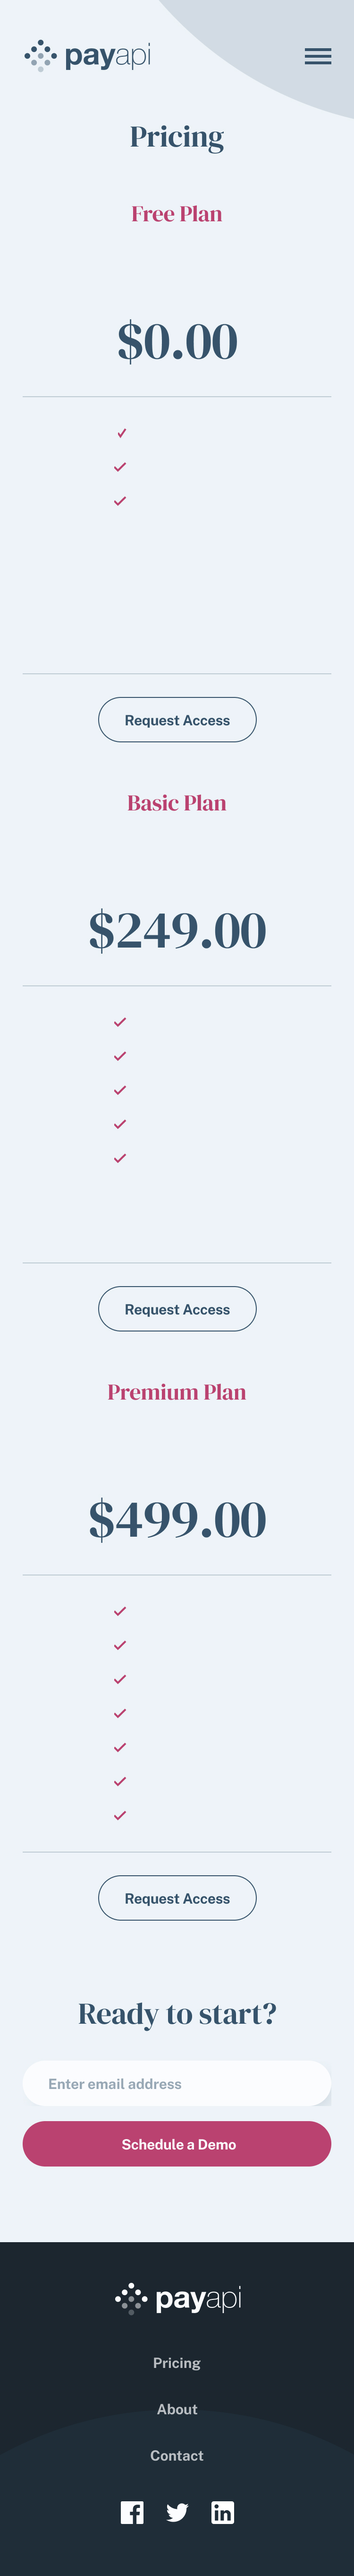
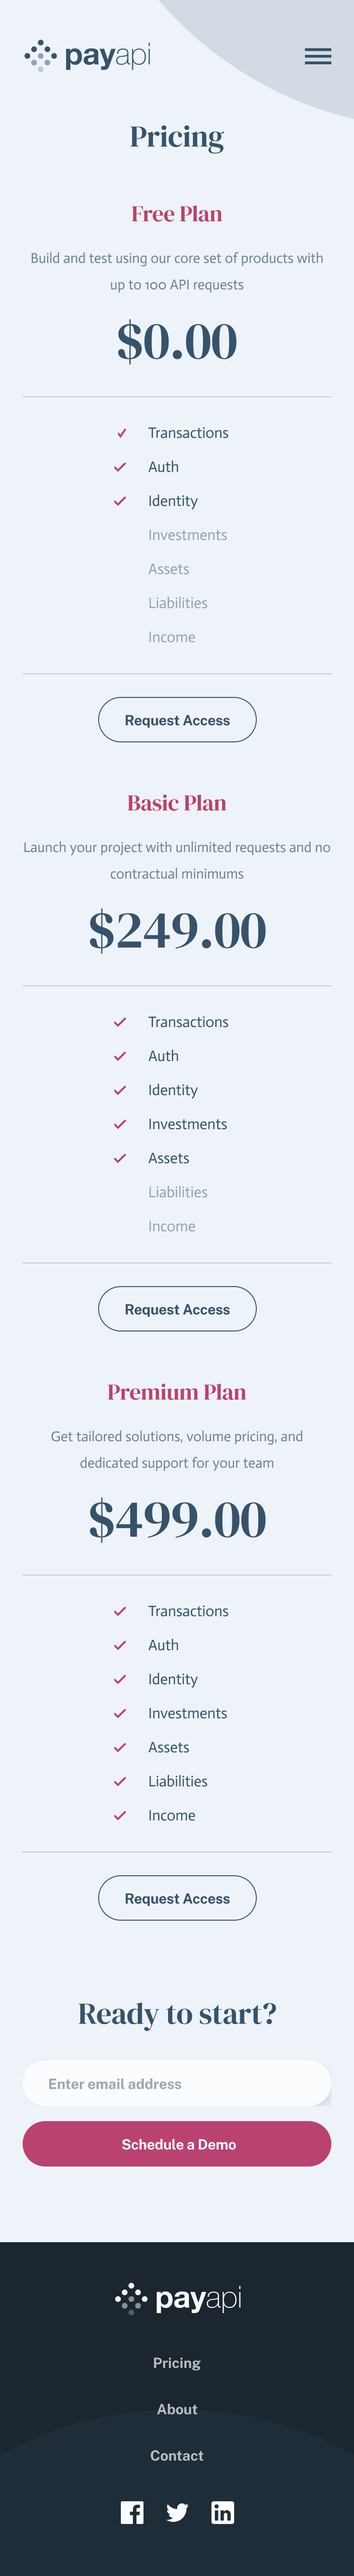
finsish pricing section for mobile

diff --git a/pricing.html b/pricing.html
@@ -28,7 +28,7 @@
                 <nav>
                     <div class="nav-bar">
                         <div class="logo">
-                            <a href=""><img src="./assets/logo.svg"></a>
+                            <a href="./index.html"><img src="./assets/logo.svg"></a>
                         </div>
                         <div class="nav-list">
                             <div class="hamburger">
@@ -46,15 +46,213 @@
                         </div>
                     </div>
                 </nav>
+                <img class="pricing-circle" src="./assets/Rectangle-home .svg" alt="">
             </div>
 
-            
-        
         </section>
     </header>
     <!-- end header section -->
 
-    
+    <!-- main section -->
+    <main>
+
+        <!-- pricing section -->
+        <section>
+            <div class="pricing-container">
+                <h1>Pricing</h1>
+                <div class="pricing">
+                    <div class="headings">
+                        <h2>free plan</h2>
+                        <p>Build and test using our core set of products with up to 100 API requests </p>
+                        <h3>$0.00</h3>
+                        <hr>
+                    </div>
+                    <div class="tik-mark">
+                        <ul>
+                            <li><svg width="14" height="11" viewBox="0 0 14 11" fill="none"
+                                    xmlns="http://www.w3.org/2000/svg">
+                                    <path d="M1 5.15798L4.89327 9L13 1" stroke="#BA4270" stroke-width="2" />
+                                </svg>
+                                <span>Transactions</span>
+                            </li>
+                            <li><svg width="14" height="11" viewBox="0 0 14 11" fill="none"
+                                    xmlns="http://www.w3.org/2000/svg">
+                                    <path d="M1 5.15798L4.89327 9L13 1" stroke="#BA4270" stroke-width="2" />
+                                </svg>
+                                <span>Auth</span>
+                            </li>
+                            <li><svg width="14" height="11" viewBox="0 0 14 11" fill="none"
+                                    xmlns="http://www.w3.org/2000/svg">
+                                    <path d="M1 5.15798L4.89327 9L13 1" stroke="#BA4270" stroke-width="2" />
+                                </svg>
+                                <span>Identity</span>
+                            </li>
+                            <li><svg width="14" height="11" viewBox="0 0 14 11" fill="none"
+                                    xmlns="http://www.w3.org/2000/svg">
+                                    <path d="M1 5.15798L4.89327 9L13 1" stroke="#EDF3F8" stroke-width="2" />
+                                </svg>
+                                <span>Invesment</span>
+                            </li>
+                            <li><svg width="14" height="11" viewBox="0 0 14 11" fill="none"
+                                    xmlns="http://www.w3.org/2000/svg">
+                                    <path d="M1 5.15798L4.89327 9L13 1" stroke="#EDF3F8" stroke-width="2" />
+                                </svg>
+                                <span>Assets</span>
+                            </li>
+                            <li><svg width="14" height="11" viewBox="0 0 14 11" fill="none"
+                                    xmlns="http://www.w3.org/2000/svg">
+                                    <path d="M1 5.15798L4.89327 9L13 1" stroke="#EDF3F8" stroke-width="2" />
+                                </svg>
+                                <span>Liabilities</span>
+                            </li>
+                            <li><svg width="14" height="11" viewBox="0 0 14 11" fill="none"
+                                    xmlns="http://www.w3.org/2000/svg">
+                                    <path d="M1 5.15798L4.89327 9L13 1" stroke="#EDF3F8" stroke-width="2" />
+                                </svg>
+                                <span>Income</span>
+                            </li>
+                        </ul>
+                    </div>
+                    <hr>
+                    <a class="pricing-btn btn" href="#">request access</a>
+                </div>
+
+                <div class="pricing">
+                    <div class="headings">
+                        <h2>basic plan</h2>
+                        <p>Launch your project with unlimited requests and no contractual minimums</p>
+                        <h3>$249.00</h3>
+                        <hr>
+                    </div>
+                    <div class="tik-mark">
+                        <ul>
+                            <li><svg width="14" height="11" viewBox="0 0 14 11" fill="none"
+                                    xmlns="http://www.w3.org/2000/svg">
+                                    <path d="M1 5.15798L4.89327 9L13 1" stroke="#BA4270" stroke-width="2" />
+                                </svg>
+                                <span>Transactions</span>
+                            </li>
+                            <li><svg width="14" height="11" viewBox="0 0 14 11" fill="none"
+                                    xmlns="http://www.w3.org/2000/svg">
+                                    <path d="M1 5.15798L4.89327 9L13 1" stroke="#BA4270" stroke-width="2" />
+                                </svg>
+                                <span>Auth</span>
+                            </li>
+                            <li><svg width="14" height="11" viewBox="0 0 14 11" fill="none"
+                                    xmlns="http://www.w3.org/2000/svg">
+                                    <path d="M1 5.15798L4.89327 9L13 1" stroke="#BA4270" stroke-width="2" />
+                                </svg>
+                                <span>Identity</span>
+                            </li>
+                            <li><svg width="14" height="11" viewBox="0 0 14 11" fill="none"
+                                    xmlns="http://www.w3.org/2000/svg">
+                                    <path d="M1 5.15798L4.89327 9L13 1" stroke="#BA4270" stroke-width="2" />
+                                </svg>
+                                <span>Invesment</span>
+                            </li>
+                            <li><svg width="14" height="11" viewBox="0 0 14 11" fill="none"
+                                    xmlns="http://www.w3.org/2000/svg">
+                                    <path d="M1 5.15798L4.89327 9L13 1" stroke="#BA4270" stroke-width="2" />
+                                </svg>
+                                <span>Assets</span>
+                            </li>
+                            <li><svg width="14" height="11" viewBox="0 0 14 11" fill="none"
+                                    xmlns="http://www.w3.org/2000/svg">
+                                    <path d="M1 5.15798L4.89327 9L13 1" stroke="#EDF3F8" stroke-width="2" />
+                                </svg>
+                                <span>Liabilities</span>
+                            </li>
+                            <li><svg width="14" height="11" viewBox="0 0 14 11" fill="none"
+                                    xmlns="http://www.w3.org/2000/svg">
+                                    <path d="M1 5.15798L4.89327 9L13 1" stroke="#EDF3F8" stroke-width="2" />
+                                </svg>
+                                <span>Income</span>
+                            </li>
+                        </ul>
+                    </div>
+                    <hr>
+                    <a class="pricing-btn btn" href="#">request access</a>
+                </div>
+
+                 <div class="pricing">
+                     <div class="headings">
+                         <h2>Premium plan</h2>
+                         <p>Get tailored solutions, volume pricing, and dedicated support for your team </p>
+                         <h3>$499.00</h3>
+                         <hr>
+                     </div>
+                     <div class="tik-mark">
+                         <ul>
+                             <li><svg width="14" height="11" viewBox="0 0 14 11" fill="none"
+                                     xmlns="http://www.w3.org/2000/svg">
+                                     <path d="M1 5.15798L4.89327 9L13 1" stroke="#BA4270" stroke-width="2" />
+                                 </svg>
+                                 <span>Transactions</span>
+                             </li>
+                             <li><svg width="14" height="11" viewBox="0 0 14 11" fill="none"
+                                     xmlns="http://www.w3.org/2000/svg">
+                                     <path d="M1 5.15798L4.89327 9L13 1" stroke="#BA4270" stroke-width="2" />
+                                 </svg>
+                                 <span>Auth</span>
+                             </li>
+                             <li><svg width="14" height="11" viewBox="0 0 14 11" fill="none"
+                                     xmlns="http://www.w3.org/2000/svg">
+                                     <path d="M1 5.15798L4.89327 9L13 1" stroke="#BA4270" stroke-width="2" />
+                                 </svg>
+                                 <span>Identity</span>
+                             </li>
+                             <li><svg width="14" height="11" viewBox="0 0 14 11" fill="none"
+                                     xmlns="http://www.w3.org/2000/svg">
+                                     <path d="M1 5.15798L4.89327 9L13 1" stroke="#BA4270" stroke-width="2" />
+                                 </svg>
+                                 <span>Invesment</span>
+                             </li>
+                             <li><svg width="14" height="11" viewBox="0 0 14 11" fill="none"
+                                     xmlns="http://www.w3.org/2000/svg">
+                                     <path d="M1 5.15798L4.89327 9L13 1" stroke="#BA4270" stroke-width="2" />
+                                 </svg>
+                                 <span>Assets</span>
+                             </li>
+                             <li><svg width="14" height="11" viewBox="0 0 14 11" fill="none"
+                                     xmlns="http://www.w3.org/2000/svg">
+                                     <path d="M1 5.15798L4.89327 9L13 1" stroke="#BA4270" stroke-width="2" />
+                                 </svg>
+                                 <span>Liabilities</span>
+                             </li>
+                             <li><svg width="14" height="11" viewBox="0 0 14 11" fill="none"
+                                     xmlns="http://www.w3.org/2000/svg">
+                                     <path d="M1 5.15798L4.89327 9L13 1" stroke="#BA4270" stroke-width="2" />
+                                 </svg>
+                                 <span>Income</span>
+                             </li>
+                         </ul>
+                     </div>
+                     <hr>
+                     <a class="pricing-btn btn" href="#">request access</a>
+                 </div>
+
+            </div>
+        </section>
+        <!-- end pricing section -->
+
+           <!-- ready section -->
+           <section>
+               <div class="ready-container">
+                   <div class="ready">
+                       <div class="ready-heading">
+                           <h5>Ready to start?</h5>
+                       </div>
+                       <form class="email-info">
+                           <input class="email-add" type="email" name="email" placeholder="Enter email address">
+                           <input class="btn" type="submit" value="Schedule a Demo">
+                       </form>
+                   </div>
+               </div>
+           </section>
+           <!-- end ready section -->
+
+    </main>
+    <!-- end main section -->
 
     <!-- footer section -->
     <footer>
@@ -74,7 +272,7 @@
                                 aria-hidden="true"></i></a></li>
                     <li><a href="#" title=" Join us on Twitter"><i class="fab fa-twitter" aria-hidden="true"></i></a>
                     </li>
-                    <li><a href="#" title=" Join us on Iinkdin"><i class="fab fa-linkedin" aria-hidden="true"></i></a>
+                    <li><a href="#" title=" Join us on Linkdin"><i class="fab fa-linkedin" aria-hidden="true"></i></a>
                     </li>
                 </ul>
             </div>

diff --git a/css/pricing.css b/css/pricing.css
@@ -29,19 +29,123 @@
      --fw-700: 700;
  }
 
- #header .nav-list .nav-item {
-     position: absolute;
-     background-color: var(--mirage-blue);
-     height: 100vh;
-     width: 80vw;
-     left: 100%;
-     top: 0;
-     right: 0;
+ /* header section */
+ #header {
+     /* position: relative; */
+     width: 100vw;
+     height: 300vh;
+     /* overflow: hidden; */
+     background-color: var(--link-water-white);
+ }
+
+ #header .nav-bar {
      display: flex;
      align-items: center;
-     justify-content: flex-start;
-     flex-direction: column;
+     justify-content: space-between;
+     height: 4rem;
+     padding: 2.5rem 2rem;
+     position: relative;
      z-index: 999;
-     transition: 0.6s cubic-bezier(0.25, 1, 0.5, 1) left;
-     padding: 3rem 2rem;
  }
+
+ .pricing-circle {
+     position: absolute;
+     width: 780px;
+     height: 780px;
+     left: 74px;
+     top: -644px;
+     z-index: 99;
+ }
+ /*end header section */
+
+
+ /* pricing section */
+.pricing-container {
+    display: flex;
+    flex-direction: column;
+    align-items: center;
+    justify-content: center;
+    position: absolute;
+    top: 5rem;
+    background-color: var(--link-water-white);
+}
+
+.pricing-container hr {
+    width: 90%;
+    opacity: 25%;
+    margin: 0 auto;
+}
+
+.pricing {
+    display: flex;
+    flex-direction: column;
+    align-items: center;
+    justify-content: center;
+}
+
+.pricing-container h1 {
+    font-size: var(--fs-v4-400);
+    color: var(--san-juan-blue);
+    padding: 2rem 0;
+}
+
+.headings {
+    text-align: center;
+}
+
+.headings h2 {
+    text-transform: capitalize;
+    font-size: var(--fs-v6-400);
+    color: var(--dark-pink);
+}
+
+.headings h3 {
+    font-size: var(--fs-v2-400);
+    color: var(--san-juan-blue);
+    margin-bottom: 1rem;
+}
+
+.headings p {
+    padding: 1.5rem .8rem;
+    color: var(--mirage-blue);
+    opacity: 80%;
+}
+
+.tik-mark {
+    padding: 1rem 0; 
+}
+
+.tik-mark li {
+    margin: .5rem;
+}
+
+.tik-mark span {
+    margin-left: .5rem;
+    margin-bottom: 1rem;
+    margin-top: .5rem;
+    color: var(--san-juan-blue);
+}
+
+.pricing-btn {
+    background: transparent;
+    border: 2px solid var(--san-juan-blue);
+    color: var(--san-juan-blue);
+    margin: 2rem 0;
+    text-transform: capitalize;
+    transition: .6s cubic-bezier(0.37, 0, 0.63, 1);
+}
+
+.pricing-btn:hover,
+.pricing-btn:active {
+    background: var(--san-juan-blue);
+    color: var(--link-water-white);
+}
+
+.footer-container {
+    position: absolute;
+    width: 100vw;
+    /* bottom: -105rem; */
+}
+/* end pricing section */
+
+

diff --git a/index.html b/index.html
@@ -147,8 +147,7 @@
                     <div class="ui-ux-text">
                         <h3>Simple UI & UX </h3>
                         <p>Our pre-built form is easy to integrate in your app or website’s checkout flow and designed
-                            to
-                            optimize conversion. </p>
+                            to optimize conversion. </p>
                     </div>
                 </div>
             </div>
@@ -231,7 +230,7 @@
                                 aria-hidden="true"></i></a></li>
                     <li><a href="#" title=" Join us on Twitter"><i class="fab fa-twitter" aria-hidden="true"></i></a>
                     </li>
-                    <li><a href="#" title=" Join us on Iinkdin"><i class="fab fa-linkedin" aria-hidden="true"></i></a>
+                    <li><a href="#" title=" Join us on Linkdin"><i class="fab fa-linkedin" aria-hidden="true"></i></a>
                     </li>
                 </ul>
             </div>
